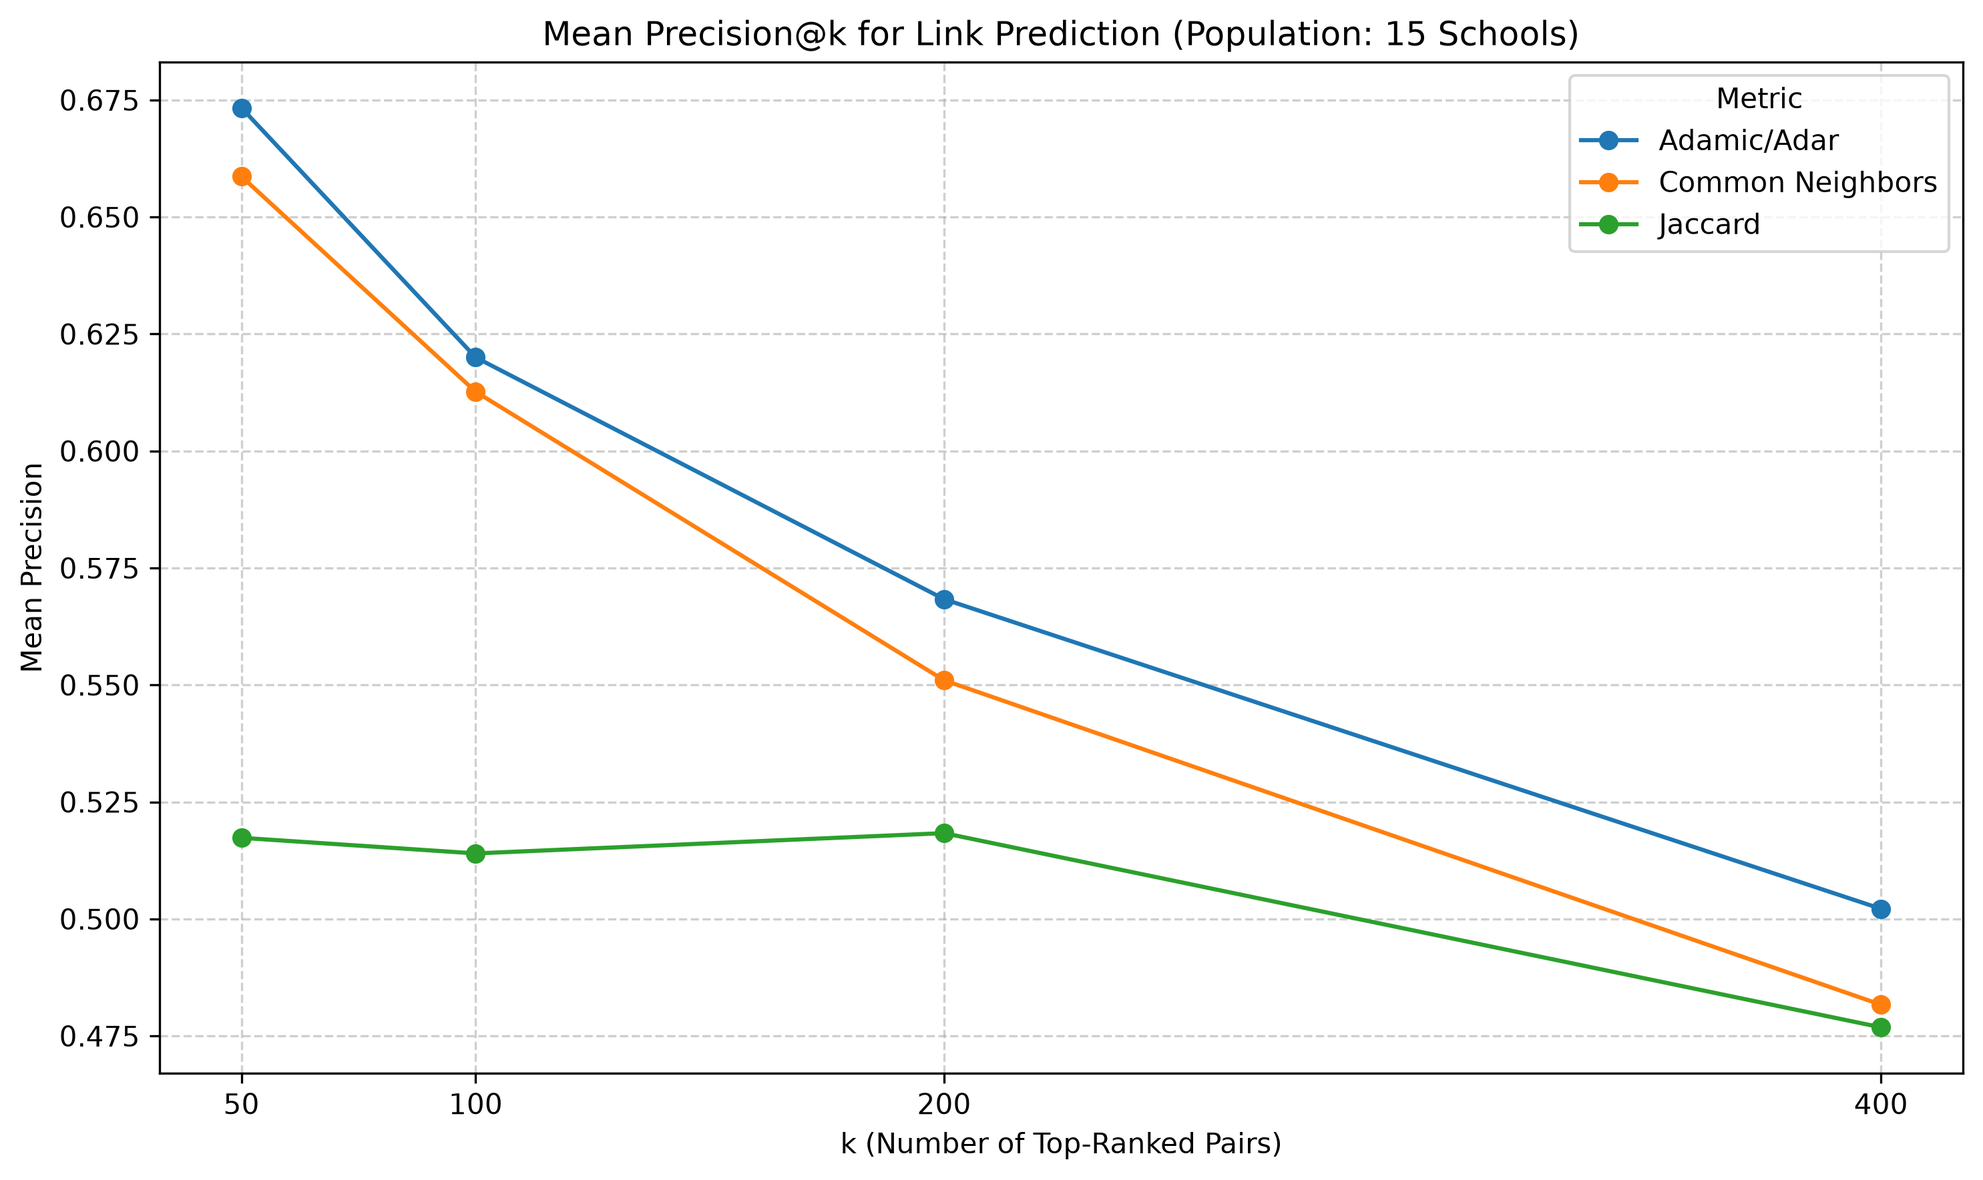
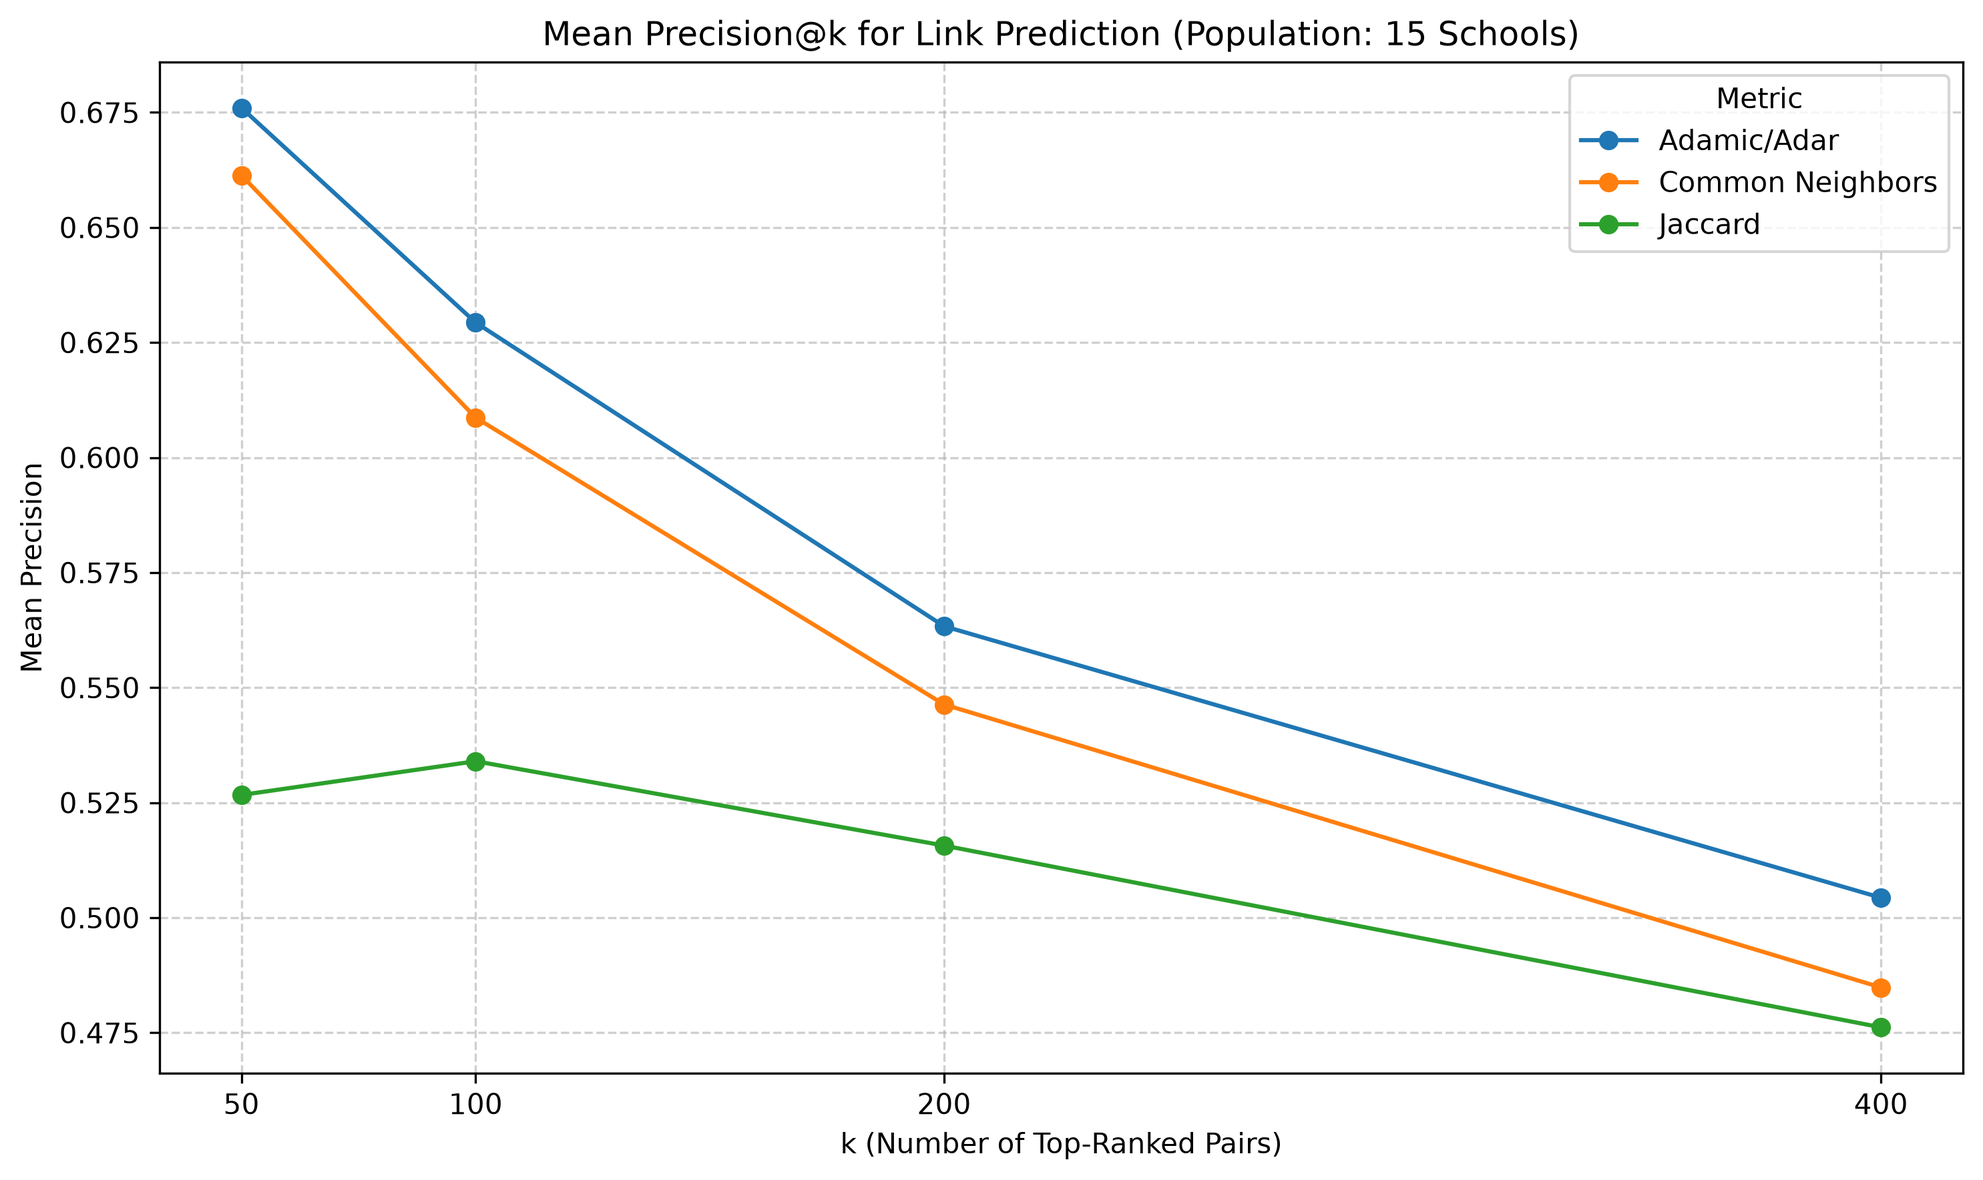
docs(report): update results and discussion with corrected code
- Q4: new link prediction table and figure from a fresh run
- Q4e: GNN Precision@k after removing the validation split
  (0.492 vs 0.375 at k=50); document the 10% held-out setup
- Q5: replace MAE with the majority-class baseline and rewrite the
  discussion relative to it; major is only slightly above chance
- Q6: results on Caltech36 instead of Cal65 (Berkeley); Caltech dorm
  NMI is 0.534 with Louvain; note that label propagation collapses to a
  single community on Caltech (758 of 769 nodes)

diff --git a/report/net4103_gaillard.tex b/report/net4103_gaillard.tex
@@ -168,18 +168,18 @@ The evaluation was performed across 15 representative schools from the dataset (
     \begin{tabular}{|l|c|c|c|}
         \hline
         \textbf{Metric}                   & \textbf{k} & \textbf{Mean Precision@k} & \textbf{Mean Recall@k} \\ \hline
-        \multirow{4}{*}{Adamic/Adar}      & 50         & 0.6520                    & 0.0054                 \\
-                                          & 100        & 0.6260                    & 0.0105                 \\
-                                          & 200        & 0.5637                    & 0.0185                 \\
-                                          & 400        & 0.5052                    & 0.0328                 \\ \hline
-        \multirow{4}{*}{Common Neighbors} & 50         & 0.6520                    & 0.0053                 \\
-                                          & 100        & 0.6207                    & 0.0104                 \\
-                                          & 200        & 0.5437                    & 0.0179                 \\
-                                          & 400        & 0.4843                    & 0.0314                 \\ \hline
-        \multirow{4}{*}{Jaccard}          & 50         & 0.5120                    & 0.0041                 \\
-                                          & 100        & 0.5187                    & 0.0085                 \\
-                                          & 200        & 0.5137                    & 0.0165                 \\
-                                          & 400        & 0.4828                    & 0.0308                 \\ \hline
+        \multirow{4}{*}{Adamic/Adar}      & 50         & 0.6760                    & 0.0057                 \\
+                                          & 100        & 0.6293                    & 0.0106                 \\
+                                          & 200        & 0.5633                    & 0.0188                 \\
+                                          & 400        & 0.5043                    & 0.0327                 \\ \hline
+        \multirow{4}{*}{Common Neighbors} & 50         & 0.6613                    & 0.0057                 \\
+                                          & 100        & 0.6087                    & 0.0103                 \\
+                                          & 200        & 0.5463                    & 0.0182                 \\
+                                          & 400        & 0.4848                    & 0.0314                 \\ \hline
+        \multirow{4}{*}{Jaccard}          & 50         & 0.5267                    & 0.0043                 \\
+                                          & 100        & 0.5340                    & 0.0088                 \\
+                                          & 200        & 0.5157                    & 0.0167                 \\
+                                          & 400        & 0.4762                    & 0.0305                 \\ \hline
     \end{tabular}
     \caption{Mean Precision and Recall across 15 Facebook100 schools.}
     \label{tab:link_pred_results}
@@ -196,7 +196,7 @@ The low recall values in Table \ref{tab:link_pred_results} reflect the evaluatio
 
 Based on the results, we can conclude the following regarding metric efficiency:
 \begin{itemize}
-    \item \textbf{Adamic/Adar} consistently outperformed the other metrics, achieving the highest mean precision (0.652 at $k=50$). This is likely because it penalizes high-degree common neighbors, giving more weight to shared neighbors who are part of smaller, more exclusive social circles.
+    \item \textbf{Adamic/Adar} consistently outperformed the other metrics, achieving the highest mean precision (0.676 at $k=50$). This is likely because it penalizes high-degree common neighbors, giving more weight to shared neighbors who are part of smaller, more exclusive social circles.
     \item \textbf{Common Neighbors} performed similarly to Adamic/Adar but with slightly lower precision, confirming that the raw number of shared friends is a strong predictor of a future connection in social networks.
     \item \textbf{Jaccard Coefficient} showed the lowest performance at low $k$ values. This suggests that normalizing the intersection by the union may be less effective in these sparse university networks compared to the absolute count of commonalities.
 \end{itemize}
@@ -222,15 +222,15 @@ To satisfy the requirement of incorporating node features, we processed the cate
 
 \subsubsection*{Performance Comparison}
 
-The GNN was evaluated on the same 15 schools used for the topological metrics. The mean Precision@k results are compared against the best-performing traditional metric (Adamic/Adar) in Table \ref{tab:gnn_comparison}.
+The GNN was evaluated on the same 15 schools used for the topological metrics. As for the heuristics, 10\% of the edges are held out as the test set and the model is trained on the remaining 90\%; no separate validation split is used, so that every held-out edge counts as a positive and none is wrongly scored as a false positive. The mean Precision@k results are compared against the best-performing traditional metric (Adamic/Adar) in Table \ref{tab:gnn_comparison}.
 
 \begin{table}[ht!]
     \centering
     \begin{tabular}{|l|c|c|c|c|}
         \hline
         \textbf{Metric}                    & \textbf{k=50} & \textbf{k=100} & \textbf{k=200} & \textbf{k=400} \\ \hline
-        \textbf{Adamic/Adar (Topological)} & 0.6520        & 0.6260         & 0.5637         & 0.5052         \\ \hline
-        \textbf{GNN (GAE + Node Features)} & 0.3747        & 0.3320         & 0.2923         & 0.2502         \\ \hline
+        \textbf{Adamic/Adar (Topological)} & 0.6760        & 0.6293         & 0.5633         & 0.5043         \\ \hline
+        \textbf{GNN (GAE + Node Features)} & 0.4920        & 0.4300         & 0.3587         & 0.2967         \\ \hline
     \end{tabular}
     \caption{Comparative Mean Precision@k: Traditional vs. GNN-based Link Prediction.}
     \label{tab:gnn_comparison}
@@ -239,7 +239,7 @@ The GNN was evaluated on the same 15 schools used for the topological metrics. T
 \subsubsection*{Discussion and Trade-offs}
 
 \begin{itemize}
-    \item \textbf{Strengths and Limitations:} The GNN's primary strength is its ability to learn non-linear relationships between node attributes and edge formation. However, the GNN performed significantly worse than the Adamic/Adar heuristic in this experiment. A major limitation is the "static" nature of the FB100 snapshot. Traditional metrics like Adamic/Adar excel when triadic closure (friends-of-friends) is the dominant connection mechanism.
+    \item \textbf{Strengths and Limitations:} The GNN's primary strength is its ability to learn non-linear relationships between node attributes and edge formation. However, the GNN still performed clearly worse than the Adamic/Adar heuristic in this experiment (0.492 vs. 0.676 at $k=50$), and the gap widens in relative terms as $k$ grows. A major limitation is the "static" nature of the FB100 snapshot. Traditional metrics like Adamic/Adar excel when triadic closure (friends-of-friends) is the dominant connection mechanism.
 
     \item \textbf{Impact of Node Features:} Inclusion of features like \texttt{dorm} and \texttt{student\_fac} provides the model with "attribute-based" context that topological metrics ignore. While this should theoretically improve accuracy by identifying homophily (as observed in our assortativity analysis), the high missing-data rate for some attributes in the FB100 dataset likely introduced noise, hindering the GNN's ability to generalize as effectively as the structural heuristics.
 
@@ -265,7 +265,7 @@ The implemented GCN architecture consists of the following components as specifi
 
 \subsection*{Recovery Results: Amherst College (Amherst41)}
 
-Using the Amherst College network, we removed 10\%, 20\%, and 30\% of labels for "dorm", "major", and "gender" to evaluate the recovery accuracy and Mean Absolute Error (MAE).
+Using the Amherst College network, we removed 10\%, 20\%, and 30\% of labels for "dorm", "major", and "gender" to evaluate the recovery accuracy. Since the labels are categorical, each accuracy is compared with a majority-class baseline: the accuracy obtained by always predicting the most common label among the labeled nodes.
 
 \begin{table}[h!]
     \centering
@@ -273,21 +273,22 @@ Using the Amherst College network, we removed 10\%, 20\%, and 30\% of labels for
     \begin{tabular}{|l|c|c|c|}
         \hline
         \textbf{Attribute} & \textbf{10\%} & \textbf{20\%} & \textbf{30\%} \\ \hline
-        \textbf{Dorm}      & 0.194 (8.60)  & 0.147 (8.56)  & 0.189 (8.82)  \\ \hline
-        \textbf{Major}     & 0.242 (6.36)  & 0.155 (7.46)  & 0.121 (7.96)  \\ \hline
-        \textbf{Gender}    & 0.704 (0.30)  & 0.704 (0.30)  & 0.681 (0.32)  \\ \hline
+        \textbf{Dorm}      & 0.217 (0.062) & 0.190 (0.070) & 0.183 (0.080) \\ \hline
+        \textbf{Major}     & 0.158 (0.133) & 0.179 (0.118) & 0.141 (0.115) \\ \hline
+        \textbf{Gender}    & 0.690 (0.478) & 0.675 (0.493) & 0.704 (0.479) \\ \hline
     \end{tabular}
-    \caption{Accuracy and MAE of the GCN-based label propagation for Amherst College. (Fraction Removed: 10\%, 20\%, 30\%)}
+    \caption{Accuracy of the GCN-based label recovery for Amherst College, with the majority-class baseline in parentheses. (Fraction Removed: 10\%, 20\%, 30\%)}
     \label{tab:label_propagation_results}
 \end{table}
 
 \subsection*{Conclusion and Discussion on Accuracy}
 
-The results demonstrate a significant variance in recovery accuracy based on the type of attribute:
+The results demonstrate a significant variance in recovery accuracy based on the type of attribute. Raw accuracies are misleading on their own, since the number of classes differs widely between attributes (2 for gender, 29 for major, 34 for dorm), so we discuss them relative to the majority-class baseline:
 
 \begin{itemize}
-    \item \textbf{Gender} achieved the highest accuracy ($\approx 70\%$). This is primarily due to the low cardinality of the label (binary classification), where the probability of correct random assignment is 50\%, and the underlying social structure provides a stable signal for the GCN to refine.
-    \item \textbf{Major} and \textbf{Dorm} exhibit much lower accuracy. These attributes have high cardinality (many distinct classes), which significantly increases the difficulty of the classification task. As the fraction of removed labels increases to 30\%, the accuracy for \textbf{Major} drops to 0.121, suggesting that the model lacks sufficient labeled "anchors" to propagate labels across the graph effectively.
+    \item \textbf{Gender} achieved the highest raw accuracy ($\approx 70\%$), about 20 points above the $\approx 48\%$ baseline. Part of this is the low cardinality of the label (binary classification), but the margin over the baseline shows that the social structure and the other attributes carry a real signal.
+    \item \textbf{Dorm} has a low raw accuracy ($\approx 18$--$22\%$) but is the attribute recovered best relative to chance: roughly 2.5 to 3.5 times its baseline of 6--8\%. This is consistent with the dorm assortativity measured in Section 2, where residence was one of the strongest drivers of friendship.
+    \item \textbf{Major} is barely recovered: the GCN beats its baseline by only 2.5 to 6 points (e.g. 0.141 vs.\ 0.115 at 30\% removed). The model therefore learns little beyond the class frequencies, which matches the weak major assortativity observed in Section 2.
     \item \textbf{Social Context:} The difference in performance reflects the strength of homophily. While "dorm" shows moderate assortativity in topological analysis, the high number of possible dormitories across a campus means that a GCN needs a dense set of labeled neighbors to make an accurate prediction, which is not always available when 30\% of the data is missing.
     \item \textbf{Technical Constraints:} The GCN's performance is also limited by the size of the training set. As we used a rather small school to reduce training time, the model may not have had enough data to learn robust patterns for the more complex attributes, especially as the fraction of missing labels increased.
 \end{itemize}
@@ -322,18 +323,18 @@ The experimental results for the selected schools are summarized in Table \ref{t
     \begin{tabular}{|l|l|c|c|c|}
         \hline
         \textbf{University (Nodes)}       & \textbf{Algorithm} & \textbf{NMI: Year} & \textbf{NMI: Major} & \textbf{NMI: Dorm} \\ \hline
-        \multirow{3}{*}{Caltech (11,247)} & Louvain            & 0.2392             & 0.0406              & 0.2597             \\
-                                          & Label Prop         & 0.2135             & 0.0097              & 0.1447             \\
-                                          & Asyn LPA           & 0.2119             & 0.0101              & 0.1443             \\ \hline
-        \multirow{3}{*}{MIT (6,440)}      & Louvain            & 0.2494             & 0.0450              & 0.2291             \\
+        \multirow{3}{*}{Caltech (769)}    & Louvain            & 0.0906             & 0.0857              & 0.5339             \\
+                                          & Label Prop         & 0.0414             & 0.0235              & 0.0181             \\
+                                          & Asyn LPA           & 0.0414             & 0.0235              & 0.0181             \\ \hline
+        \multirow{3}{*}{MIT (6,440)}      & Louvain            & 0.2218             & 0.0455              & 0.2562             \\
                                           & Label Prop         & 0.2062             & 0.0366              & 0.0521             \\
-                                          & Asyn LPA           & 0.1855             & 0.0355              & 0.0474             \\ \hline
-        \multirow{3}{*}{UNC (18,163)}     & Louvain            & 0.2916             & 0.0419              & 0.2044             \\
+                                          & Asyn LPA           & 0.0431             & 0.0249              & 0.0208             \\ \hline
+        \multirow{3}{*}{UNC (18,163)}     & Louvain            & 0.2903             & 0.0476              & 0.2121             \\
                                           & Label Prop         & 0.0039             & 0.0075              & 0.0025             \\
-                                          & Asyn LPA           & 0.0031             & 0.0038              & 0.0019             \\ \hline
-        \multirow{3}{*}{Harvard (15,126)} & Louvain            & 0.4866             & 0.0533              & 0.1516             \\
+                                          & Asyn LPA           & 0.0034             & 0.0064              & 0.0022             \\ \hline
+        \multirow{3}{*}{Harvard (15,126)} & Louvain            & 0.4772             & 0.0539              & 0.1512             \\
                                           & Label Prop         & 0.3547             & 0.0396              & 0.1623             \\
-                                          & Asyn LPA           & 0.2193             & 0.0366              & 0.1517             \\ \hline
+                                          & Asyn LPA           & 0.2245             & 0.0391              & 0.1548             \\ \hline
     \end{tabular}
     \caption{NMI scores for detected communities against student attributes across four universities.}
     \label{tab:nmi_results}
@@ -351,11 +352,12 @@ The experimental results for the selected schools are summarized in Table \ref{t
 The analysis reveals several critical insights into the social structure of these university networks:
 
 \begin{itemize}
-    \item \textbf{Dormitory Influence and Scale:} The hypothesis regarding Caltech was confirmed; the \textbf{Dorm} attribute yielded the highest NMI (0.2597), confirming that residency is a primary organizing force in smaller, specialized environments. As institutional size increased (e.g., Harvard), the relative influence of the Dorm attribute decreased to 0.1516, supporting the idea that residential cohesion does not scale linearly with university size.
-    \item \textbf{Academic Affiliation (Major):} Contrary to the hypothesis, the NMI for \textbf{Major} remained consistently low (roughly 0.04 to 0.05) across all scales. This suggests that academic affiliation is a poor predictor of community structure compared to residency and seniority, regardless of university size.
-    \item \textbf{The Dominance of Graduation Year:} The most significant finding was the strength of the \textbf{Year} attribute, especially at larger schools like Harvard ($NMI = 0.4866$). This indicates that class-year cohorts are the dominant organizing principle in large universities, likely due to shared schedules, events, and common academic progression.
+    \item \textbf{Dormitory Influence and Scale:} The hypothesis regarding Caltech was strongly confirmed: with Louvain, the \textbf{Dorm} attribute reaches an NMI of 0.5339, the highest value in the whole experiment and more than six times the NMI for Major (0.0857). This is consistent with Caltech's undergraduate House system acting as the primary organizing force of social life. Dorm NMI then drops at the larger schools (0.2562 at MIT, 0.2121 at UNC, 0.1512 at Harvard). The decrease is not strictly monotonic in size, since UNC is larger than Harvard yet has a higher Dorm NMI, so institutional size is not the only factor: residential policies also differ between schools.
+    \item \textbf{Academic Affiliation (Major):} Contrary to the hypothesis, the NMI for \textbf{Major} does not increase with size. It is highest at Caltech (0.0857) and stays low (roughly 0.045 to 0.054) at the three larger schools. Academic affiliation is therefore a poor predictor of community structure compared to residency and seniority, regardless of university size.
+    \item \textbf{The Dominance of Graduation Year:} The NMI for \textbf{Year} grows steadily with size, from 0.0906 at Caltech to 0.2218 at MIT, 0.2903 at UNC and 0.4772 at Harvard, where it is the strongest signal. This indicates that class-year cohorts become the dominant organizing principle in large universities, likely due to shared schedules, events, and common academic progression.
+    \item \textbf{Label Propagation Instability:} Both label propagation variants give near-zero NMI on Caltech and UNC. On Caltech, label propagation assigns 758 of the 769 nodes to a single community, so these scores reflect a collapse of the algorithm on a small, dense network rather than an absence of structure. Louvain is the only method that gives consistent partitions across all four schools, and the conclusions above rely on its results.
 \end{itemize}
 
-In conclusion, our experiment confirms that residency-based social clustering is highly effective at small scales but is superseded by class-year cohorts as the primary driver of community formation in larger university networks. This aligns with the observations from the first referenced paper by the assignment.
+In conclusion, our experiment confirms that residency-based social clustering is highly effective at small scales, with Caltech as the clearest case, but is superseded by class-year cohorts as the primary driver of community formation in larger university networks. This aligns with the observations from the first referenced paper by the assignment.
 
 \end{document}
